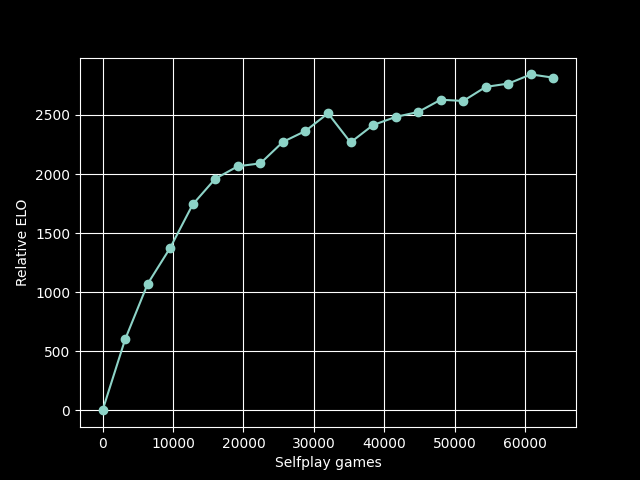
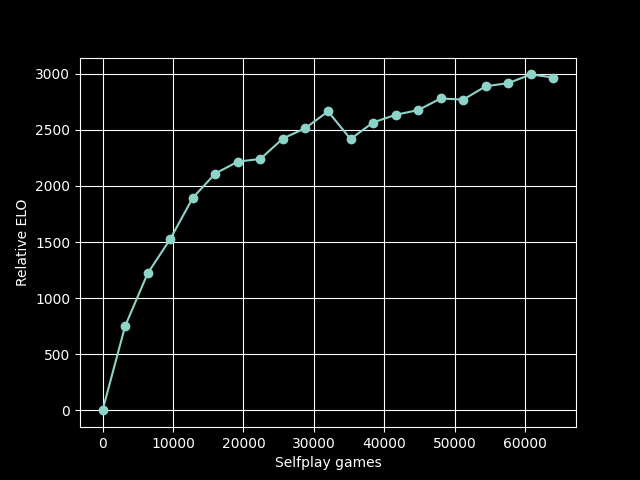
Deployed ba81437 with MkDocs version: 1.6.0

diff --git a/training-runs/index.html b/training-runs/index.html
@@ -590,30 +590,6 @@
     </span>
   </a>
   
-    <nav class="md-nav" aria-label="Hardware">
-      <ul class="md-nav__list">
-        
-          <li class="md-nav__item">
-  <a href="#network-v9" class="md-nav__link">
-    <span class="md-ellipsis">
-      Network v9
-    </span>
-  </a>
-  
-</li>
-        
-          <li class="md-nav__item">
-  <a href="#network-v4" class="md-nav__link">
-    <span class="md-ellipsis">
-      Network v4
-    </span>
-  </a>
-  
-</li>
-        
-      </ul>
-    </nav>
-  
 </li>
       
     </ul>
@@ -737,30 +713,6 @@
     </span>
   </a>
   
-    <nav class="md-nav" aria-label="Hardware">
-      <ul class="md-nav__list">
-        
-          <li class="md-nav__item">
-  <a href="#network-v9" class="md-nav__link">
-    <span class="md-ellipsis">
-      Network v9
-    </span>
-  </a>
-  
-</li>
-        
-          <li class="md-nav__item">
-  <a href="#network-v4" class="md-nav__link">
-    <span class="md-ellipsis">
-      Network v4
-    </span>
-  </a>
-  
-</li>
-        
-      </ul>
-    </nav>
-  
 </li>
       
     </ul>
@@ -810,12 +762,30 @@ relative to rapid ratings on chess.com.  This is based on playing against the en
 </thead>
 <tbody>
 <tr>
+<td>v12.25</td>
+<td>64</td>
+<td>4</td>
+<td>Squeeze Excitation</td>
+<td>80,000</td>
+<td>1350</td>
+<td>Added squeeze-excitation layer to residual blocks</td>
+</tr>
+<tr>
+<td>v11.25</td>
+<td>64</td>
+<td>4</td>
+<td>Residual</td>
+<td>80,000</td>
+<td>1350</td>
+<td>Board oriented towards side to move</td>
+</tr>
+<tr>
 <td>v9.20</td>
 <td>64</td>
 <td>4</td>
 <td>Residual</td>
 <td>64,000</td>
-<td>1300</td>
+<td>1250</td>
 <td>First run with residual blocks</td>
 </tr>
 <tr>
@@ -845,17 +815,26 @@ between the new network and the previous version.  In this tournament, both mode
 each side from 100 different standard opening positions.  Search is fixed at 800
 playouts.</p>
 <figure>
-  <img alt="v9.20 ELO" src="../img/v9.20_elo.png" width="480" />
-  <figcaption>Training history for network v9.20</figcaption>
+  <img alt="v12.25 ELO" src="../img/v12.25_elo.png" width="480" />
+  <figcaption>Training history for network v12.25</figcaption>
+</figure>
+<figure>
+  <img alt="v11.25 ELO" src="../img/v11.25_elo.png" width="480" />
+  <figcaption>Training history for network v11.25</figcaption>
 </figure>
 <p>Training history for earlier network versions are shown below.  Comparing the final
 relative ELO scores across different training runs might be misleading for a couple of
 reasons: (1) statistical error in the individual ELO comparisons accumulates over these
 graphs, and (2) the relative ELOs are based on a small number of playouts (800), whereas
 at larger playouts, the ELO differences might be less pronounced.</p>
-<p>Some reference comparisons were also made (again using 800 playouts), indicating a
-strength difference of about 80 ELO between v8.15 and v4.15, and a difference of about
-350 ELO between v9.20 and v4.15.</p>
+<p>Reference comparisons were also made (again using 800 playouts), indicating no
+difference between v12.25 and v11.25, a strength difference of about 260 ELO between
+v11.20 and v9.20, a difference of about 350 ELO between v9.20 and v4.15, and a
+difference of about 80 ELO between v8.15 and v4.15</p>
+<figure>
+  <img alt="v9.20 ELO" src="../img/v9.20_elo.png" width="480" />
+  <figcaption>Training history for network v9.20</figcaption>
+</figure>
 <figure>
   <img alt="v8.15 ELO" src="../img/v8.15_elo.png" width="480" />
   <figcaption>Training history for network v8.15</figcaption>
@@ -901,26 +880,24 @@ strength difference of about 80 ELO between v8.15 and v4.15, and a difference of
 <li>Evaluation was performed using cutechess-cli.</li>
 </ul>
 <h2 id="hardware">Hardware</h2>
-<h3 id="network-v9">Network v9</h3>
-<p>This run was done using a refurbished Lenovo ThinkCentre mini pc with an Intel Core i7
-having 4 cores and 8 threads.  Some initial issues with overheating had to be resolved
-by limiting the clock speed to 2.7 GHz.  Selfplay was done using the serial MCTS
-implementation with 4 self-play processes running concurrently, each using a single
-thread for network inference.  Due to the use of a cache for network inference,
-throughput increases over the course of model training.  At iteration v9.5, throughput
-was about 2.83 moves per second per process, for a total of approximately 11.32 moves per
-second.  A typical self-play iteration consisting of 800 games per worker (3,200 total)
-took about 10 hours, followed by an hour or so for the training update and strength
-evaluation.</p>
-<h3 id="network-v4">Network v4</h3>
-<p>This run was done on an Amazon EC2 instance with 8 virtual CPUs.  To obtain the best
-self-play throughput with the serial MCTS implementation, 8 self-play processes were run
-concurrently, and neural network model evaluation for each process was configured to use
-one thread.  Typical throughput was approximately 2.35 moves per second per process, for
-a total of approximately 18.8 moves per second (this was before network caching was
-implemented in dlchess).  A typical self-play iteration consisting of 400 games per
-worker (3,200 total) took about 7 hours.  After generating self-play data, the training
-update was fast, taking on the order of minutes.</p>
+<p>Training runs beginning with v9 were done using a refurbished Lenovo ThinkCentre mini pc
+with an Intel Core i7 having 4 cores and 8 threads.  Some initial issues with
+overheating had to be resolved by limiting the clock speed to 2.7 GHz.  Selfplay was
+done using the serial MCTS implementation with 4 self-play processes running
+concurrently, each using a single thread for network inference.  Due to the use of a
+cache for network inference, throughput increases over the course of model training.  At
+iteration v9.5, throughput was about 2.83 moves per second per process, for a total of
+approximately 11.32 moves per second.  A typical self-play iteration consisting of 800
+games per worker (3,200 total) took about 10 hours, followed by an hour or so for the
+training update and strength evaluation.</p>
+<p>Earlier training runs were done on an Amazon EC2 instance with 8 virtual CPUs.  To
+obtain the best self-play throughput with the serial MCTS implementation, 8 self-play
+processes were run concurrently, and neural network model evaluation for each process
+was configured to use one thread.  Typical throughput was approximately 2.35 moves per
+second per process, for a total of approximately 18.8 moves per second (this was before
+network caching was implemented in dlchess).  A typical self-play iteration consisting
+of 400 games per worker (3,200 total) took about 7 hours.  After generating self-play
+data, the training update was fast, taking on the order of minutes.</p>
 
 
 

diff --git a/design/neural-network/index.html b/design/neural-network/index.html
@@ -776,7 +776,10 @@ plane correspond to the squares on the chess board.  dlchess uses 22 input plane
 <li>1 plane that encodes the en passant square, if any.</li>
 <li>1 constant plane that is set to all ones, presumably to help with edge detection.</li>
 </ul>
-<p>The input encoder is designed against the following interface, where <code>Tensor</code> is a simple user-defined template that wraps <code>std::vector</code> with shape and stride information.</p>
+<p>Prior to encoding, the board is oriented towards the side to move (i.e., so that pawns
+for the side to move always move in the positive direction).</p>
+<p>The input encoder is designed against the following interface, where <code>Tensor</code> is a
+simple user-defined template that wraps <code>std::vector</code> with shape and stride information.</p>
 <div class="language-c++ highlight"><pre><span></span><code><span id="__span-0-1"><a id="__codelineno-0-1" name="__codelineno-0-1" href="#__codelineno-0-1"></a><span class="k">class</span><span class="w"> </span><span class="nc">Encoder</span><span class="w"> </span><span class="p">{</span>
 </span><span id="__span-0-2"><a id="__codelineno-0-2" name="__codelineno-0-2" href="#__codelineno-0-2"></a><span class="k">public</span><span class="o">:</span>
 </span><span id="__span-0-3"><a id="__codelineno-0-3" name="__codelineno-0-3" href="#__codelineno-0-3"></a><span class="w">  </span><span class="k">virtual</span><span class="w"> </span><span class="n">Tensor</span><span class="o">&lt;</span><span class="kt">float</span><span class="o">&gt;</span><span class="w"> </span><span class="n">encode</span><span class="p">(</span><span class="k">const</span><span class="w"> </span><span class="n">chess</span><span class="o">::</span><span class="n">Board</span><span class="o">&amp;</span><span class="p">)</span><span class="w"> </span><span class="k">const</span><span class="w"> </span><span class="o">=</span><span class="w"> </span><span class="mi">0</span><span class="p">;</span>
